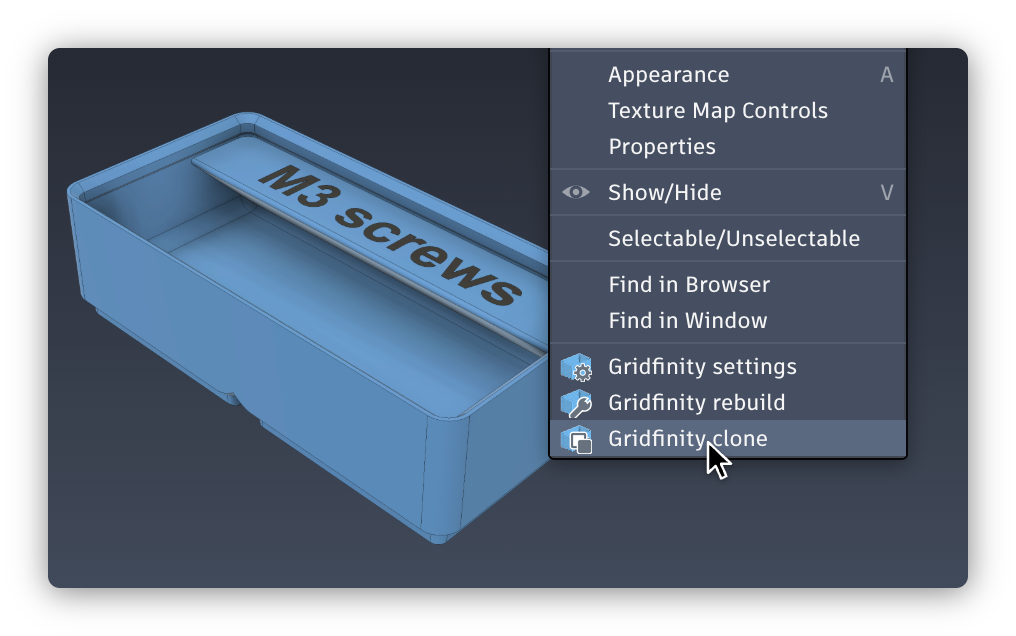
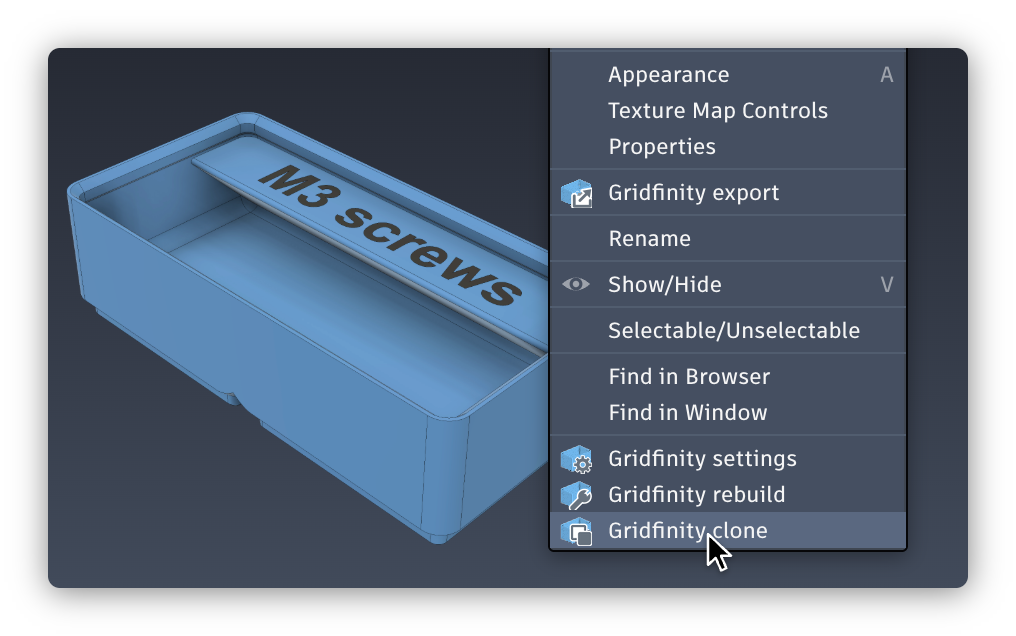
Document the export
The README shows the export in the right-click menu and its dialog,
and the bin's right-click menu shot lists it after Properties, as
Fusion shows it on a face. The dialog screenshots draw the export
dialog, with its selection input and folder button.

diff --git a/tools/screenshots/page/dialog.js b/tools/screenshots/page/dialog.js
@@ -37,6 +37,9 @@ const ICONS = {
     check: () => icon(11, 11, '<path d="M2 5.8 L4.5 8.2 L9.2 2.8"/>'),
     minimize: () => icon(9, 9, '<path d="M1 4.5 h7"/>'),
     dock: () => icon(10, 9, '<path d="M1 1.5 L4 4.5 L1 7.5 M5.5 1.5 L8.5 4.5 L5.5 7.5"/>'),
+    // a selection input's arrow and its clear cross
+    select: () => icon(12, 14, '<path d="M1.5 1 V11.5 L4.2 9 L6.2 13.2 L8 12.4 L6 8.3 H9.6 Z"/>'),
+    clear: () => icon(9, 9, '<path d="M1.5 1.5 L7.5 7.5 M7.5 1.5 L1.5 7.5"/>'),
     // the system arrow, its tip at 0, 0
     cursor: () => icon(14, 21, '<path d="M1 1 V16.5 L4.8 12.9 L7.6 19.2 L10.2 18.1 L7.5 11.9 H12.6 Z"/>'),
 };
@@ -125,8 +128,18 @@ function drawInput(input) {
     }
     case 'checkbox':
         return labelled(input, checkbox(input.checked));
+    case 'selection': {
+        // active, Fusion picks into the first selection input as the dialog opens
+        const box = element('div', 'selection');
+        box.append(ICONS.select(), element('span', 'text', input.count ? `${input.count} selected` : 'Select'));
+        if (input.count) {
+            box.append(ICONS.clear());
+        }
+        return labelled(input, box);
+    }
     case 'button': {
-        const button = element('button', 'button', input.name);
+        // its text, or its name when it has none
+        const button = element('button', 'button', input.text || input.name);
         if (input.fullWidth) {
             const node = row(input, 'full');
             node.append(button);

diff --git a/tools/screenshots/page/dialog.css b/tools/screenshots/page/dialog.css
@@ -267,6 +267,27 @@ body {
     border-radius: 3px;
     white-space: nowrap;
 }
+.selection {
+    justify-self: start;
+    display: flex;
+    align-items: center;
+    height: 24px;
+    padding: 0 7px;
+    gap: 6px;
+    border-radius: 2px;
+    background: var(--focus);
+    color: #ffffff;
+    white-space: nowrap;
+}
+.selection svg:first-child {
+    fill: #ffffff;
+}
+.selection svg:last-child:not(:first-child) {
+    margin-left: 4px;
+    fill: none;
+    stroke: #ffffff;
+    stroke-width: 1.4;
+}
 .text-box {
     align-self: start;
     padding: 4px 12px;

diff --git a/tools/screenshots/dialogRecorder.py b/tools/screenshots/dialogRecorder.py
@@ -23,6 +23,7 @@ PACKAGE = 'gridfinityAddin'
 COMMANDS = {
     'bin': 'commandCreateBin',
     'baseplate': 'commandCreateBaseplate',
+    'export': 'commandExport',
 }
 # what the commands call the state of their inputs and the function setting its defaults
 UI_STATE_NAMES = ['commandUIState', 'uiState']
@@ -66,6 +67,10 @@ def loadCommand(command: str) -> types.ModuleType:
     return importlib.import_module(f'{PACKAGE}.commands.{folder}.entry')
 
 
+def _has(module: types.ModuleType, names: list[str]) -> bool:
+    return any(hasattr(module, name) for name in names)
+
+
 def _find(module: types.ModuleType, names: list[str]):
     for name in names:
         if hasattr(module, name):
@@ -84,7 +89,7 @@ def _stateValue(current, value):
 
 
 def applyValues(module: types.ModuleType, values: dict, moduleGlobals: dict):
-    uiState = _find(module, UI_STATE_NAMES)
+    uiState = _find(module, UI_STATE_NAMES) if values else None
     for (inputId, value) in values.items():
         if inputId not in uiState.inputState:
             known = ', '.join(sorted(uiState.inputState))
@@ -100,18 +105,26 @@ class DialogSession:
     """
     A command's dialog with the given input values, by input id as the dialog saves its defaults, open to be changed
     as a person would and drawn after every change. Without a defaults file the dialog has its original defaults, not
-    the ones saved in Fusion
+    the ones saved in Fusion. A command without a state of its inputs, as the export, gets the values as changes once
+    its dialog is up, and the choices it keeps from before aren't read
     """
 
     def __init__(self, command: str, values: dict = None, moduleGlobals: dict = None, defaultsFile: str = None):
         self.module = loadCommand(command)
         import adsk.core
         self.module.UI_INPUT_DEFAULTS_CONFIG_PATH = os.path.abspath(defaultsFile) if defaultsFile else os.path.join(SCREENSHOTS_DIR, 'no-saved-defaults.json')
-        _find(self.module, INIT_NAMES)()
-        applyValues(self.module, values or {}, moduleGlobals or {})
+        if hasattr(self.module, 'CONFIG_FOLDER_PATH'):
+            self.module.CONFIG_FOLDER_PATH = os.path.join(SCREENSHOTS_DIR, 'no-saved-config')
+        hasState = _has(self.module, UI_STATE_NAMES)
+        if hasState:
+            _find(self.module, INIT_NAMES)()
+        applyValues(self.module, (values or {}) if hasState else {}, moduleGlobals or {})
 
         self.command = adsk.core.Command()
         self.module.command_created(adsk.core.CommandCreatedEventArgs(self.command))
+        if not hasState:
+            for (inputId, value) in (values or {}).items():
+                self.change(inputId, value)
         _checkDropdowns(self.command.commandInputs, values or {})
         # pages ask for their data once loaded, what the dialog sent before is stale
         self.takeSentInfo()
@@ -130,7 +143,8 @@ class DialogSession:
         import adsk.core
         (width, height) = self.command.dialogSize
         validation = adsk.core.ValidateInputsEventArgs(self.inputs)
-        self.module.command_validate_input(validation)
+        if hasattr(self.module, 'command_validate_input'):
+            self.module.command_validate_input(validation)
         return {
             'title': self.module.CMD_NAME,
             'width': width,
@@ -169,6 +183,14 @@ class DialogSession:
             input.value = int(value)
         elif isinstance(input, adsk.core.FloatSpinnerCommandInput):
             input.value = float(value)
+        elif isinstance(input, adsk.core.TextBoxCommandInput):
+            input.text = value
+        elif isinstance(input, adsk.core.SelectionCommandInput):
+            # as many bodies selected, stand ins the command takes for any body, there's no design
+            from adsk.anything import Anything
+            input.clearSelection()
+            for _ in range(int(value)):
+                input.addSelection(Anything())
         else:
             input.value = value
         self.module.command_input_changed(adsk.core.InputChangedEventArgs(input, self.inputs))
@@ -241,11 +263,13 @@ def _describe(input) -> dict:
     if isinstance(input, (adsk.core.FloatSpinnerCommandInput, adsk.core.IntegerSpinnerCommandInput)):
         return {**common, 'type': 'spinner', 'text': input.expression}
     if isinstance(input, adsk.core.BoolValueCommandInput):
-        return {**common, 'type': 'checkbox' if input.isCheckBox else 'button', 'checked': input.value}
+        return {**common, 'type': 'checkbox' if input.isCheckBox else 'button', 'checked': input.value, 'text': input.text}
     if isinstance(input, adsk.core.StringValueCommandInput):
         return {**common, 'type': 'string', 'text': input.value, 'readOnly': input.isReadOnly}
     if isinstance(input, adsk.core.TextBoxCommandInput):
         return {**common, 'type': 'textbox', 'html': input.formattedText, 'rows': input.numRows}
+    if isinstance(input, adsk.core.SelectionCommandInput):
+        return {**common, 'type': 'selection', 'count': input.selectionCount}
     if isinstance(input, adsk.core.DropDownCommandInput):
         selected = input.selectedItem
         items = [{'name': item.name, 'icon': _icon(item.icon), 'iconDark': _icon(item.icon, '-dark'), 'separator': item.isSeparator} for item in input.listItems]

diff --git a/tools/screenshots/fakeAdsk/adsk/core.py b/tools/screenshots/fakeAdsk/adsk/core.py
@@ -185,6 +185,46 @@ class TextBoxCommandInput(CommandInput):
         self.formattedText = value
 
 
+class Selection:
+    def __init__(self, entity):
+        self.entity = entity
+
+
+class SelectionCommandInput(CommandInput):
+    # filters, only kept
+    SolidBodies = 'SolidBodies'
+    Bodies = 'Bodies'
+    Occurrences = 'Occurrences'
+
+    def __init__(self, inputs, inputId, name, commandPrompt: str):
+        super().__init__(inputs, inputId, name)
+        self.commandPrompt = commandPrompt
+        self.filters: list[str] = []
+        self._selections: list[Selection] = []
+
+    def addSelectionFilter(self, filter: str):
+        self.filters.append(filter)
+        return True
+
+    def setSelectionLimits(self, minimum: int, maximum: int = 0):
+        return True
+
+    def clearSelection(self):
+        self._selections = []
+        return True
+
+    def addSelection(self, entity):
+        self._selections.append(Selection(entity))
+        return True
+
+    @property
+    def selectionCount(self) -> int:
+        return len(self._selections)
+
+    def selection(self, index: int) -> Selection:
+        return self._selections[index]
+
+
 class ListItem:
     def __init__(self, items: 'ListItems', name: str, isSelected: bool, icon: str = '', isSeparator: bool = False):
         self._items = items
@@ -336,6 +376,9 @@ class CommandInputs:
 
     def addTextBoxCommandInput(self, inputId, name, formattedText, numRows, isReadOnly):
         return self._add(TextBoxCommandInput(self, inputId, name, formattedText, numRows, isReadOnly))
+
+    def addSelectionInput(self, inputId, name, commandPrompt):
+        return self._add(SelectionCommandInput(self, inputId, name, commandPrompt))
 
     def addDropDownCommandInput(self, inputId, name, dropDownStyle):
         return self._add(DropDownCommandInput(self, inputId, name, dropDownStyle))

diff --git a/README.md b/README.md
@@ -57,6 +57,7 @@ Skeletonized baseplates can have holes between them for a screw or a glued in pi
   - adjustable length, offset and overhang angle, top can be tilted to face the front
   - can be hollow, opened through the back wall of the bin and optionally its side walls
   - label with text and an icon, outlined for a slicer to color it, engraved or embossed
+  - outlined label text shows in a color of its own in Fusion, and the export paints it for the slicer
   - label text can be changed later in the user parameters, without generating the bin again
 - **Base**
   - magnet sockets, sized for a snug fit of the magnets, optionally with tabs holding them in
@@ -64,6 +65,7 @@ Skeletonized baseplates can have holes between them for a screw or a glued in pi
   - joint origins at the bottom of every foot, to joint the bin into baseplate sockets
 - **Settings** can be saved as the dialog defaults, saved to or loaded from a JSON file, copied to the clipboard or cloned into a new bin, also from its right-click menu
 - **Rebuild** a generated bin or baseplate with changed settings, from its right-click menu or its settings window, it's built again at its place in the timeline and the features after it keep working on the new body. Features picked on a face or an edge of the old body are listed to pick again. For a bin, changing only what its parameters hold, like the height or label text, sets them instead, without building it again
+- **Export** bins and baseplates from their right-click menu, all of them at once into one 3MF with the label text painted in a color of the slicer, or into an STL or STEP file each
 
 <picture><source media="(prefers-color-scheme: dark)" srcset="documentation/assets/gif/bin-features-dark.gif"><img src="documentation/assets/gif/bin-features-light.gif" alt="Changing the size, type and wall thickness of a bin, with the bin at each change"></picture>
 
@@ -141,6 +143,19 @@ Bin for random round things
 Right-click a generated bin or baseplate for its settings, to rebuild it in place with changed settings or to clone it into a new one. The settings window shows what it was built with, saves them to a file, copies or clones them
 
 <picture><source media="(prefers-color-scheme: dark)" srcset="documentation/assets/ui/context-menu-gridfinity-scene-dark.png"><img src="documentation/assets/ui/context-menu-gridfinity-scene-light.png" alt="Fusion's right-click menu opened on a bin, the pointer on Gridfinity clone below Gridfinity settings and Gridfinity rebuild" width="508"></picture>
+
+### Export
+Right-click a bin or baseplate, or a component holding them, and pick Gridfinity export. It exports the selected bodies, or every visible bin and baseplate with All Gridfinity bodies, into:
+- **3MF**, one file with all of them, as they're laid out in the design. With Color label text, the text of outlined labels is painted with the label color index, so Bambu Studio, OrcaSlicer and PrusaSlicer print it in that color of their list without painting it by hand
+- **STL** or **STEP**, a file of each body, named after it, at the origin with its bottom at zero whatever its place in the design
+
+3MF and STL bodies are meshed at Fusion's very high quality
+
+Color index metadata is stored in 3MF and is read by modern slicers to assign appropriate color/tool to the text faces.
+
+<picture><source media="(prefers-color-scheme: dark)" srcset="documentation/assets/ui/context-menu-export-scene-dark.png"><img src="documentation/assets/ui/context-menu-export-scene-light.png" alt="Fusion's right-click menu opened on a bin, the pointer on Gridfinity export below Properties" width="508"></picture>
+
+<picture><source media="(prefers-color-scheme: dark)" srcset="documentation/assets/ui/fusion-dialog-export-dark.png"><img src="documentation/assets/ui/fusion-dialog-export-light.png" alt="The Gridfinity export dialog, 4 bodies selected for one 3MF in Downloads, the label text colored with color index 2" width="500"></picture>
 
 ## Installation
 

diff --git a/tools/screenshots/README.md b/tools/screenshots/README.md
@@ -28,9 +28,9 @@ A shot in `shots.json`:
 | Key | |
 |---|---|
 | `name` | File name, with `-dark` or `-light` added when it is taken in both themes |
-| `command` | `bin` or `baseplate` |
+| `command` | `bin`, `baseplate` or `export` |
 | `menu` | Instead of a command, Fusion's right-click menu with these `items`, each a `label` with an optional `shortcut` and `icon`, a file from the add-in folder or `eye`, or `{"separator": true}`. `"cutTop": true` tears the top, for a menu going on above. `"hover": true` on an item lights it. `scene` opens the menu on Fusion's viewport, `{"width", "height", "model": {"picture", "x", "y", "width"}, "menuAt": [x, y]}` in dialog pixels, a model picture from the add-in folder, the menu's corner can be above the viewport's top, the pointer rests on the hovered item, at `cursorAt`, shares of its label's width and height. Fusion's own icons aren't drawn, the add-in's are |
-| `values` | Input values by id, as the dialog saves its defaults. Lengths are in cm, or a string such as `"42 mm"`. Groups take `true` or `false` to expand or collapse them |
+| `values` | Input values by id, as the dialog saves its defaults. Lengths are in cm, or a string such as `"42 mm"`. Groups take `true` or `false` to expand or collapse them. The export keeps no defaults, its values are set once the dialog is up: a selection takes how many bodies are selected, a text box its text |
 | `globals` | Values of the command's other state, such as `binShapeCells` or `compartmentPockets` |
 | `defaults` | A saved `ui_input_defaults.json` to start from instead of the original defaults |
 | `inputs` | Input ids to show. The shot takes the part of the dialog from the first to the last of them and tears the edges where it is cut. `<group id>:header` is the header of a group. Leave it out to take the whole dialog |
